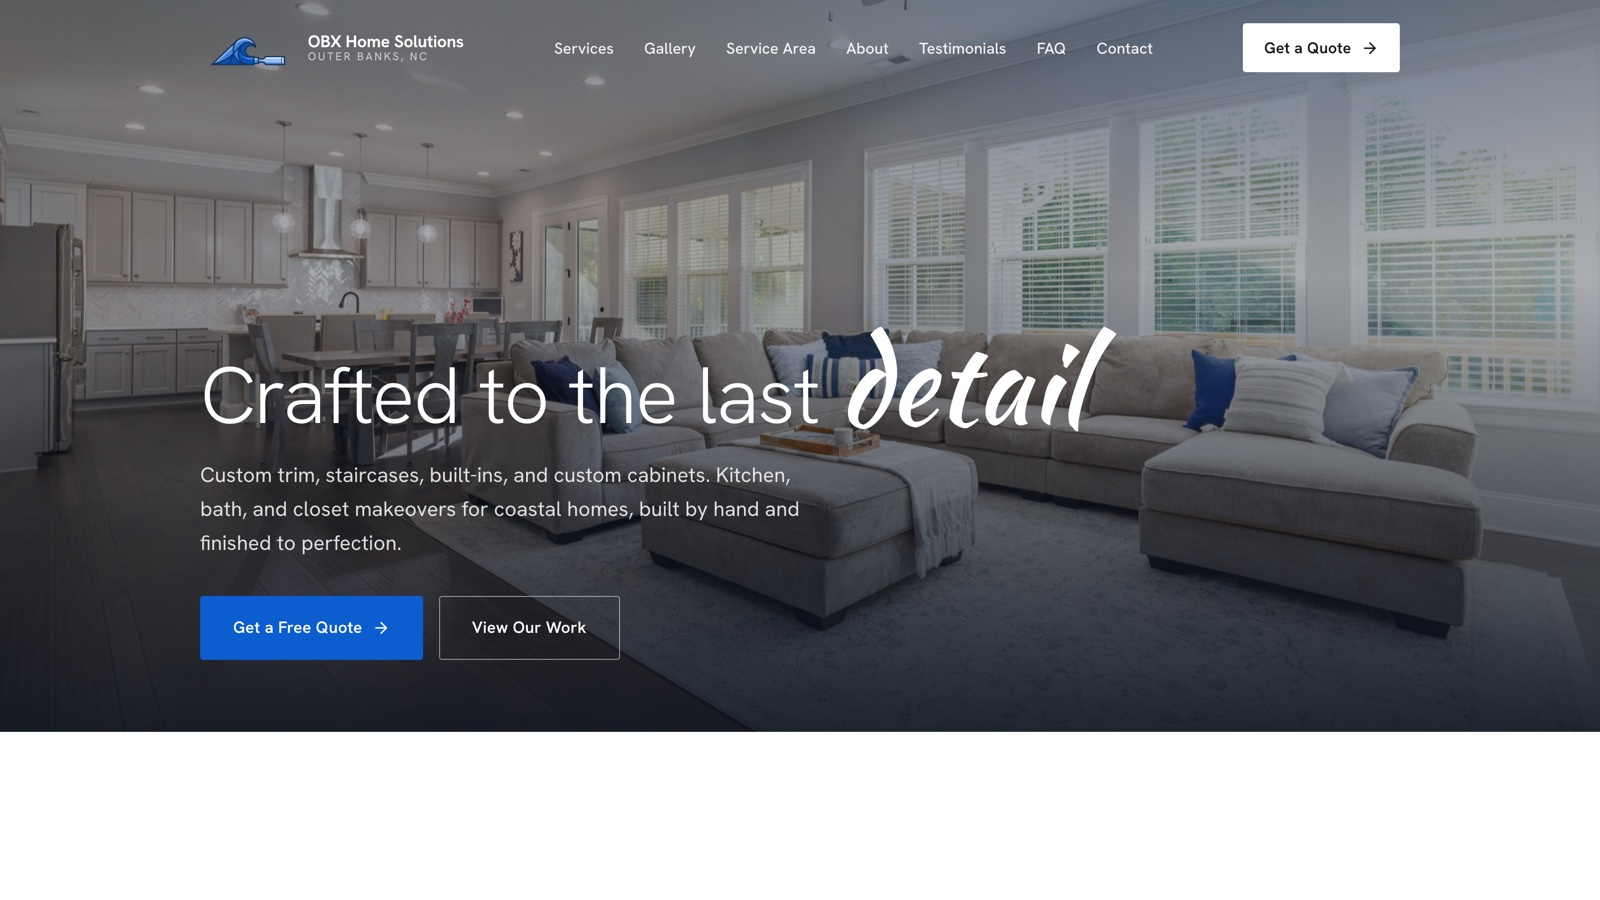
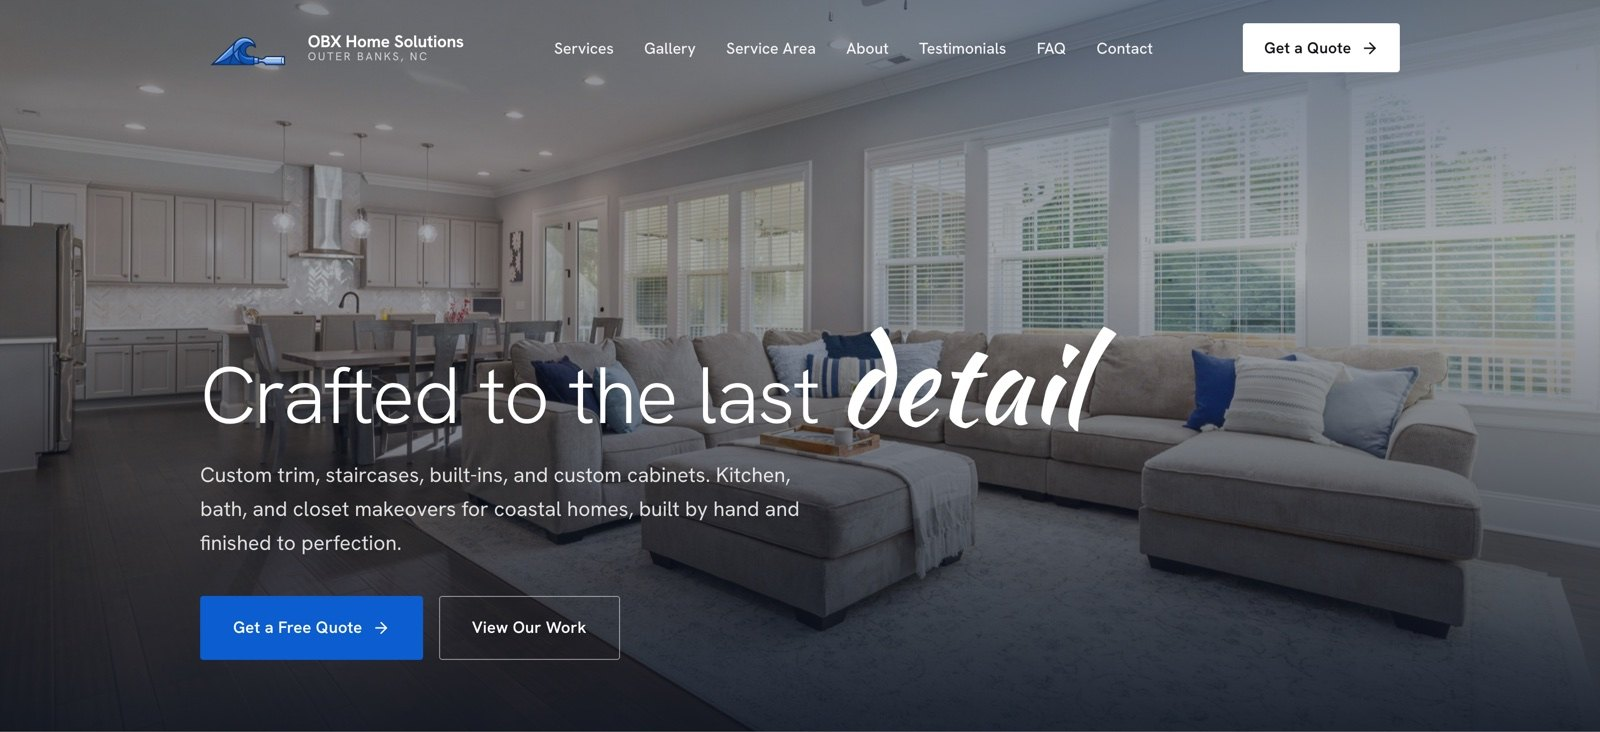
Fix OBX case-study hero: crop white strip off preview image, show hero whole
- Cropped 168px of trailing white off obxhs-preview.jpg (1600x900 -> 1600x732)

- Scoped .obxhs-hero so the now-wider hero shows whole (no 16:9 side-crop of logo/CTA)

- Cache-busted all obxhs-preview.jpg refs (?v=2) so the crop shows on a normal refresh

diff --git a/obxhs.html b/obxhs.html
@@ -67,8 +67,8 @@
   </dl>
 </header>
 
-<div class="cs-hero-image">
-  <img src="assets/obxhs-preview.jpg" alt="OBX Home Solutions · the new homepage" loading="lazy">
+<div class="cs-hero-image obxhs-hero">
+  <img src="assets/obxhs-preview.jpg?v=2" alt="OBX Home Solutions · the new homepage" loading="lazy">
 </div>
 
 <!-- BEFORE / AFTER -->
@@ -84,7 +84,7 @@
       </div>
       <div class="ba-card after">
         <div class="ba-tag"><span class="dot"></span>After · The NearBlack build</div>
-        <div class="ba-img"><img src="assets/obxhs-preview.jpg" alt="OBX Home Solutions · the new website, after" loading="lazy"></div>
+        <div class="ba-img"><img src="assets/obxhs-preview.jpg?v=2" alt="OBX Home Solutions · the new website, after" loading="lazy"></div>
         <p class="ba-caption"><strong>A full website — services, gallery, service area, testimonials — built to be found on Google and to win the job.</strong></p>
       </div>
     </div>

diff --git a/assets/style.css b/assets/style.css
@@ -495,3 +495,7 @@ footer ul a:hover{opacity:1}
 .cs-gallery.obxhs-gallery{grid-template-columns:1fr!important;max-width:900px;gap:40px}
 .cs-gallery.obxhs-gallery img{aspect-ratio:auto!important;height:auto!important;width:100%;object-fit:contain;border-radius:6px}
 .cs-gallery.obxhs-gallery img:first-child{grid-column:span 1!important;aspect-ratio:auto!important}
+
+/* OBX case-study hero: image is wider than 16:9 after cropping the white strip — show it whole, no side-crop */
+.cs-hero-image.obxhs-hero{aspect-ratio:auto!important}
+.cs-hero-image.obxhs-hero img{height:auto!important;object-fit:contain}

diff --git a/portfolio.html b/portfolio.html
@@ -96,7 +96,7 @@
       </a>
 
       <a href="/obxhs" class="project wide">
-        <div class="project-img"><img src="assets/obxhs-preview.jpg" alt="OBX Home Solutions · obxhs.com" loading="lazy"></div>
+        <div class="project-img"><img src="assets/obxhs-preview.jpg?v=2" alt="OBX Home Solutions · obxhs.com" loading="lazy"></div>
         <div class="project-meta">
           <div>
             <div class="project-name">OBX Home Solutions <em>· obxhs.com</em></div>

diff --git a/index.html b/index.html
@@ -120,7 +120,7 @@
       </a>
       <a href="/obxhs" class="project wide">
         <div class="project-img">
-          <img src="assets/obxhs-preview.jpg" alt="obxhs.com" loading="lazy">
+          <img src="assets/obxhs-preview.jpg?v=2" alt="obxhs.com" loading="lazy">
         </div>
         <div class="project-meta">
           <div>
